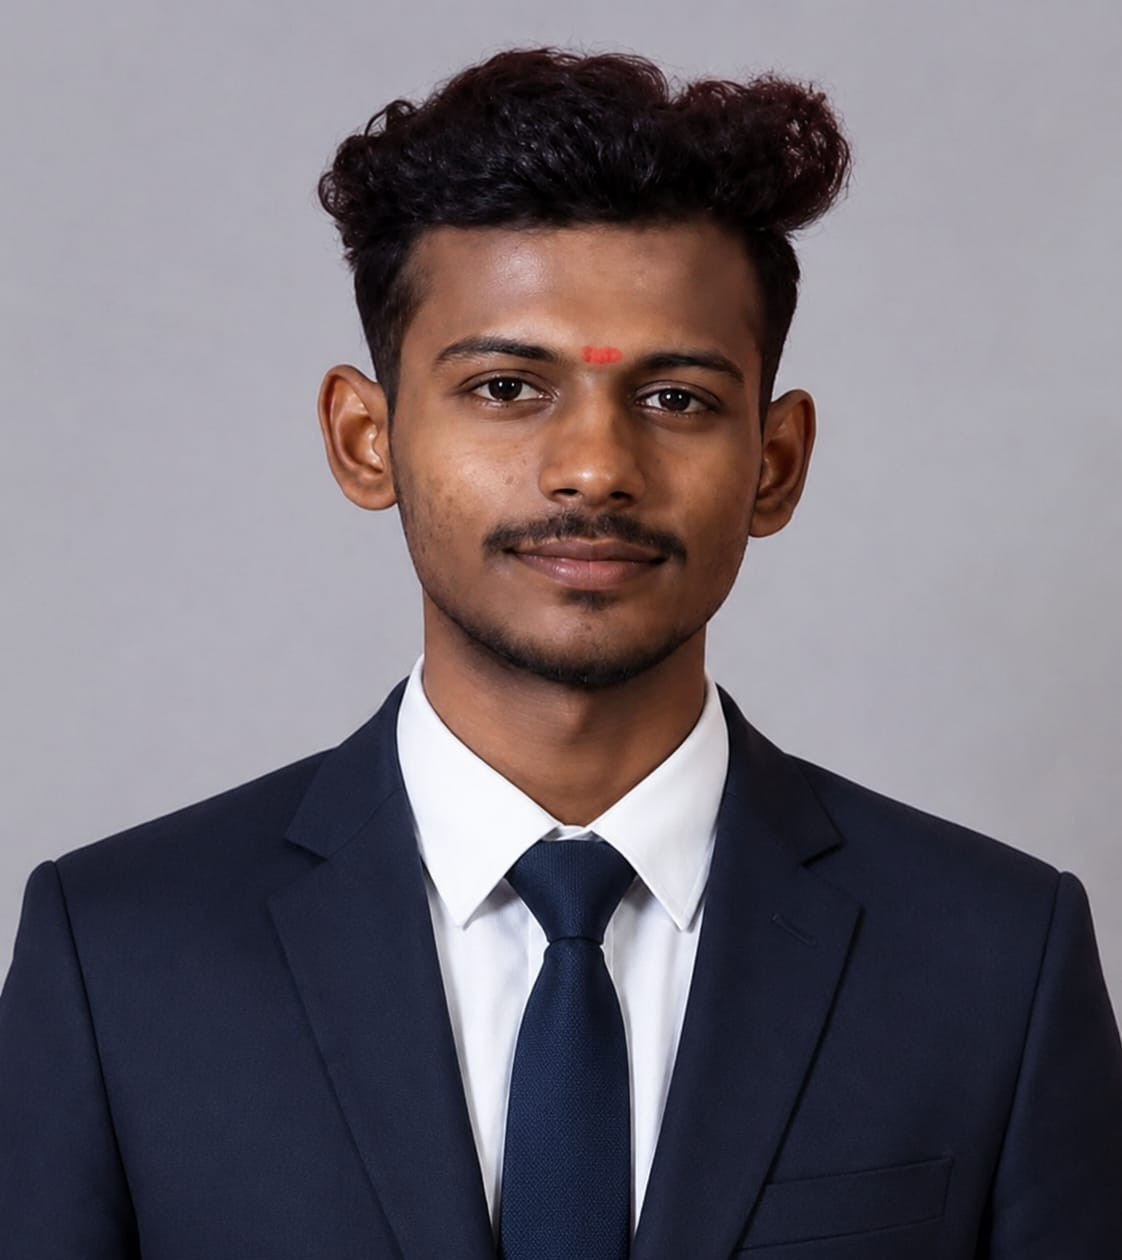
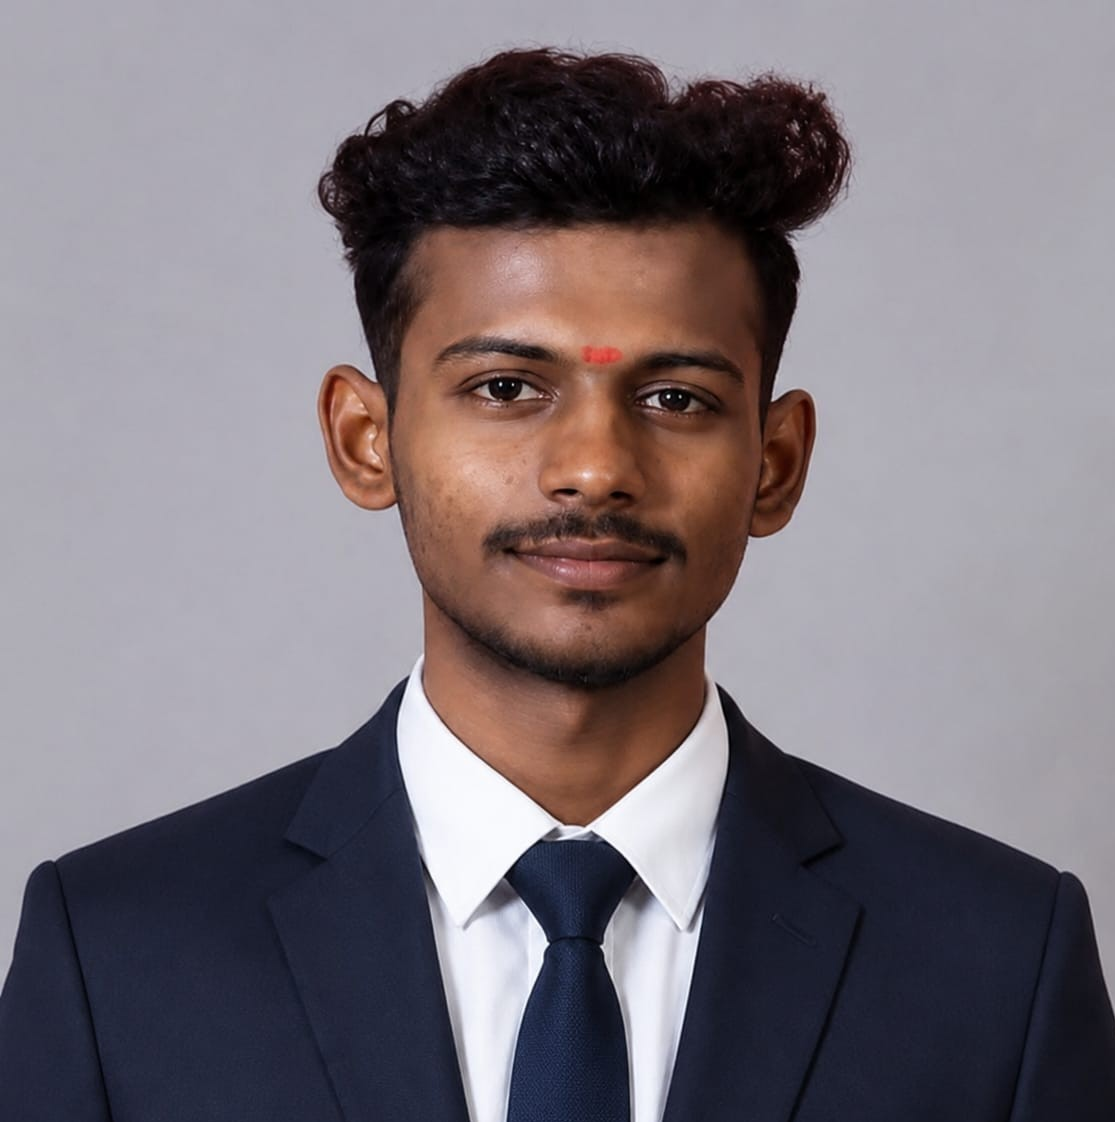
homepage team members updated

diff --git a/components/home/team-preview.tsx b/components/home/team-preview.tsx
@@ -1,12 +1,13 @@
 "use client"
 
 import Link from "next/link"
+import { useState } from "react"
 import { Button } from "@/components/ui/button"
 import { Linkedin, Github, Mail, ArrowRight } from "lucide-react"
 import { useScrollAnimation, useTilt } from "@/hooks/use-scroll-animation"
 
 const teamMembers = [
- {
+  {
     name: "Aswin K A",
     role: "Management Head & HR Manager",
     image: "/team/aswin.jpeg",
@@ -25,11 +26,11 @@ const teamMembers = [
     email: "siranjeevi.uthaman@gmail.com",
   },
   {
-    name: "Pradeep Kumar M",
-    role: "Legal & Compliance Officer",
+    name: "M.Pradeep Kumar.DCSE",
+    role: "Legal & Chief Technical Developer",
     image: "/team/pradeepkumar.jpeg",
     bio: "Ensuring regulatory compliance, managing legal risks, protecting company integrity and ethical standards.",
-    linkedin: "https://www.linkedin.com/in/pradeep-kumar-m/",
+    linkedin: "https://www.linkedin.com/in/pradeep-kumar-3650982a9?utm_source=share&utm_campaign=share_via&utm_content=profile&utm_medium=android_app",
     github: "https://github.com/Selvipr",
     email: "pradeepselvi126@gmail.com",
   },
@@ -42,30 +43,36 @@ const teamMembers = [
     github: "https://github.com/Sargunan-js",
     email: "sargunanitl01@gmail.com",
   },
-   {
-    name: "Hari Haran T.G",
-    role: "Full Stack Developer",
-    image: "/team/david.jpg",
-    bio: "Creating intuitive user experiences",
-    linkedin: "https://www.linkedin.com/in/hariharan-t-g-51013a284/",
-    github: "https://github.com/21Hari",
-    email: "hariharan@asrivotech.com",
+  {
+    id: "dev-sj",
+    name: "sivaganesh.J",
+    role: "TEAM LEAD, DATABASE, BACKEND",
+    bio: "Leading the team, backend and database optimization initiatives for robust, scalable application infrastructure.",
+    image: "/team/sivaganesh j.jpeg",
+    email: "sivaganesh73acm@gmail.com",
+    linkedin: "https://www.linkedin.com/in/sivaganesh-j",
+    github: "https://github.com/sivaganeshj",
+    featured: false,
   },
   {
     name: "Krishan Kumar B.K",
     role: "Project Manager",
-    image: "/team/krishan.jpg",
+    image: "",
     bio: "Frontend Developer & Project Manager driving seamless delivery and team coordination.",
     linkedin: "https://www.linkedin.com/in/krishan-kumar-b-k/",
     github: "https://github.com/krishankumar",
     email: "krishan@asrivotech.com",
   },
 ]
+
 function TeamMemberCard({ member, index }: { member: typeof teamMembers[0]; index: number }) {
   const { ref: tiltRef, transform } = useTilt(6)
   const { ref: scrollRef, isVisible } = useScrollAnimation(0.1)
+  const [imgError, setImgError] = useState(false)
 
-  const initials = member.name.split(' ').map(n => n[0]).join('').toUpperCase().slice(0, 4)
+  const initials = member.name.split(' ').map(n => n[0]).join('').toUpperCase().slice(0, 3)
+  const avatarSrc = member.image?.trim() ? member.image.trim() : null
+  const showInitials = !avatarSrc || imgError
 
   return (
     <div
@@ -89,9 +96,18 @@ function TeamMemberCard({ member, index }: { member: typeof teamMembers[0]; inde
           <div className="relative mx-auto w-fit">
             <div className="absolute inset-0 bg-gradient-to-br from-primary to-accent rounded-full animate-spin-slow opacity-0 group-hover:opacity-100 transition-opacity duration-500 blur-sm scale-110" />
             <div className="relative mx-auto h-28 w-28 overflow-hidden rounded-full bg-gradient-to-br from-primary/30 to-accent/30 flex items-center justify-center ring-4 ring-border group-hover:ring-primary/50 transition-all duration-500 group-hover:scale-105">
-              <span className="text-3xl font-bold text-primary transition-transform duration-500 group-hover:scale-110">
-                {initials}
-              </span>
+              {showInitials ? (
+                <span className="text-3xl font-bold text-primary transition-transform duration-500 group-hover:scale-110">
+                  {initials}
+                </span>
+              ) : (
+                <img
+                  src={avatarSrc!}
+                  alt={`${member.name} profile`}
+                  className="h-full w-full object-cover object-center"
+                  onError={() => setImgError(true)}
+                />
+              )}
             </div>
             {/* Floating particles */}
             <div className="absolute -top-1 -right-1 w-3 h-3 rounded-full bg-primary/50 opacity-0 group-hover:opacity-100 animate-float transition-opacity duration-500" />

diff --git a/components/footer.tsx b/components/footer.tsx
@@ -34,7 +34,7 @@ const defaultSettings = {
   site_name: 'Asrivo Tech',
   site_tagline: "TURNING IDEAS INTO INTELLIGENT SOLUTIONS",
   contact_email: 'info@asrivotech.com',
-  contact_phone: '+91 8122575337',
+  contact_phone: '+91 9976422558',
   contact_address: 'Madurai, Tamil Nadu, India',
   social_linkedin: 'https://linkedin.com/company/asrivotech',
   social_github: 'https://github.com/asrivotech',
@@ -51,7 +51,17 @@ export function Footer() {
       .then(res => res.json())
       .then(data => {
         if (data.success && data.data) {
-          setSettings(prev => ({ ...prev, ...data.data }))
+          const incoming = data.data
+          // Keep our defaults for address and phone if the DB still has old placeholder values
+          const STALE_ADDRESSES = ['123 Tech Street San Francisco, CA 94105', '123 Tech Street', 'San Francisco']
+          const STALE_PHONES = ['+1 (555) 123-4567', '+1 555 123-4567']
+          if (STALE_ADDRESSES.some(s => incoming.contact_address?.includes(s))) {
+            delete incoming.contact_address
+          }
+          if (STALE_PHONES.some(s => incoming.contact_phone?.includes(s))) {
+            delete incoming.contact_phone
+          }
+          setSettings(prev => ({ ...prev, ...incoming }))
         }
       })
       .catch(err => console.error('Error loading settings:', err))

diff --git a/app/team/page.tsx b/app/team/page.tsx
@@ -59,17 +59,7 @@ const developmentTeamData = [
     github: "https://github.com/thamaraiselvan",
     featured: false,
   },
-  {
-    id: "dev-an",
-    name: "ARIVANANTHAM.N",
-    role: "UI&UX, FRONT END DESIGNER (UNAVAILABLE)",
-    bio: "Crafting intuitive user interfaces and delightful user experiences with cutting-edge frontend technologies.",
-    image: "/team/Arivananatham.jpeg",
-    email: "arivananathamn417@gmail.com",
-    linkedin: "https://www.linkedin.com/in/arivanantham-n",
-    github: "https://github.com/arivanantham",
-    featured: false,
-  },
+  
 ]
 
 const managementTeamData = [
@@ -117,16 +107,7 @@ const managementTeamData = [
     github: "https://github.com/Sargunan-js",
     featured: false,
   },
-  {
-    id: "mgmt-hht",
-    name: "Hari Haran T.G",
-    role: "Full Stack Developer",
-    bio: "Creating intuitive user experiences",
-    email: "hariharan@asrivotech.com",
-    linkedin: "https://www.linkedin.com/in/hariharan-t-g-51013a284/",
-    github: "https://github.com/21Hari",
-    featured: false,
-  },
+  
   {
     id: "mgmt-kkb",
     name: "Krishan Kumar B.K",
